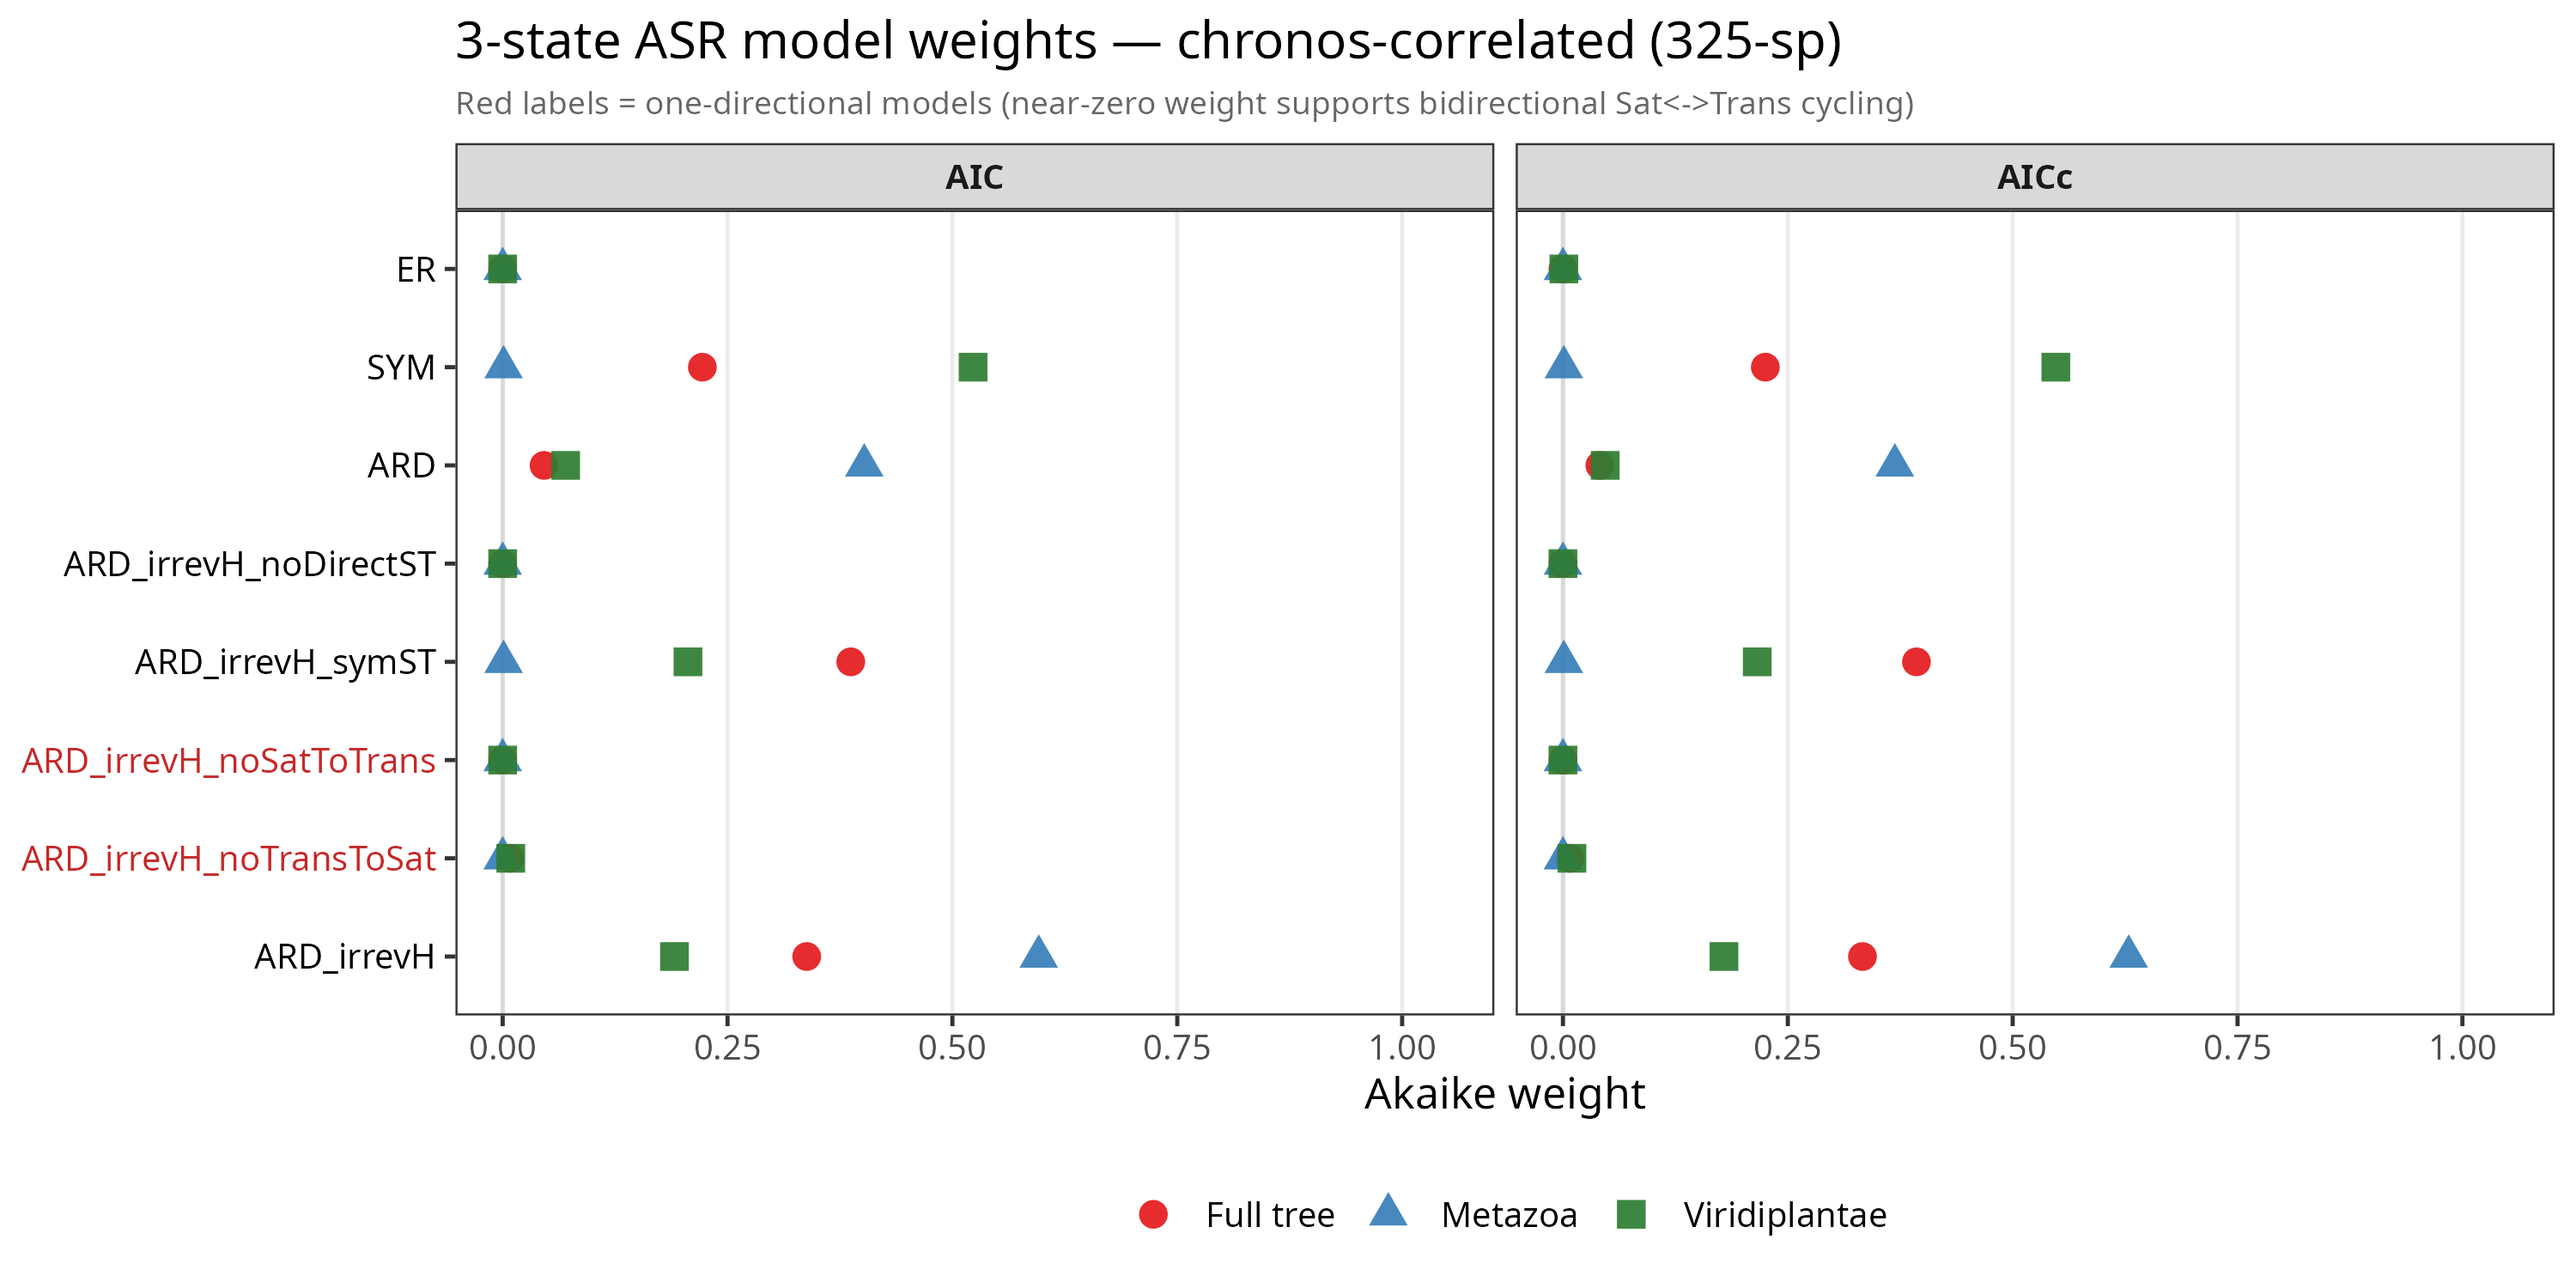
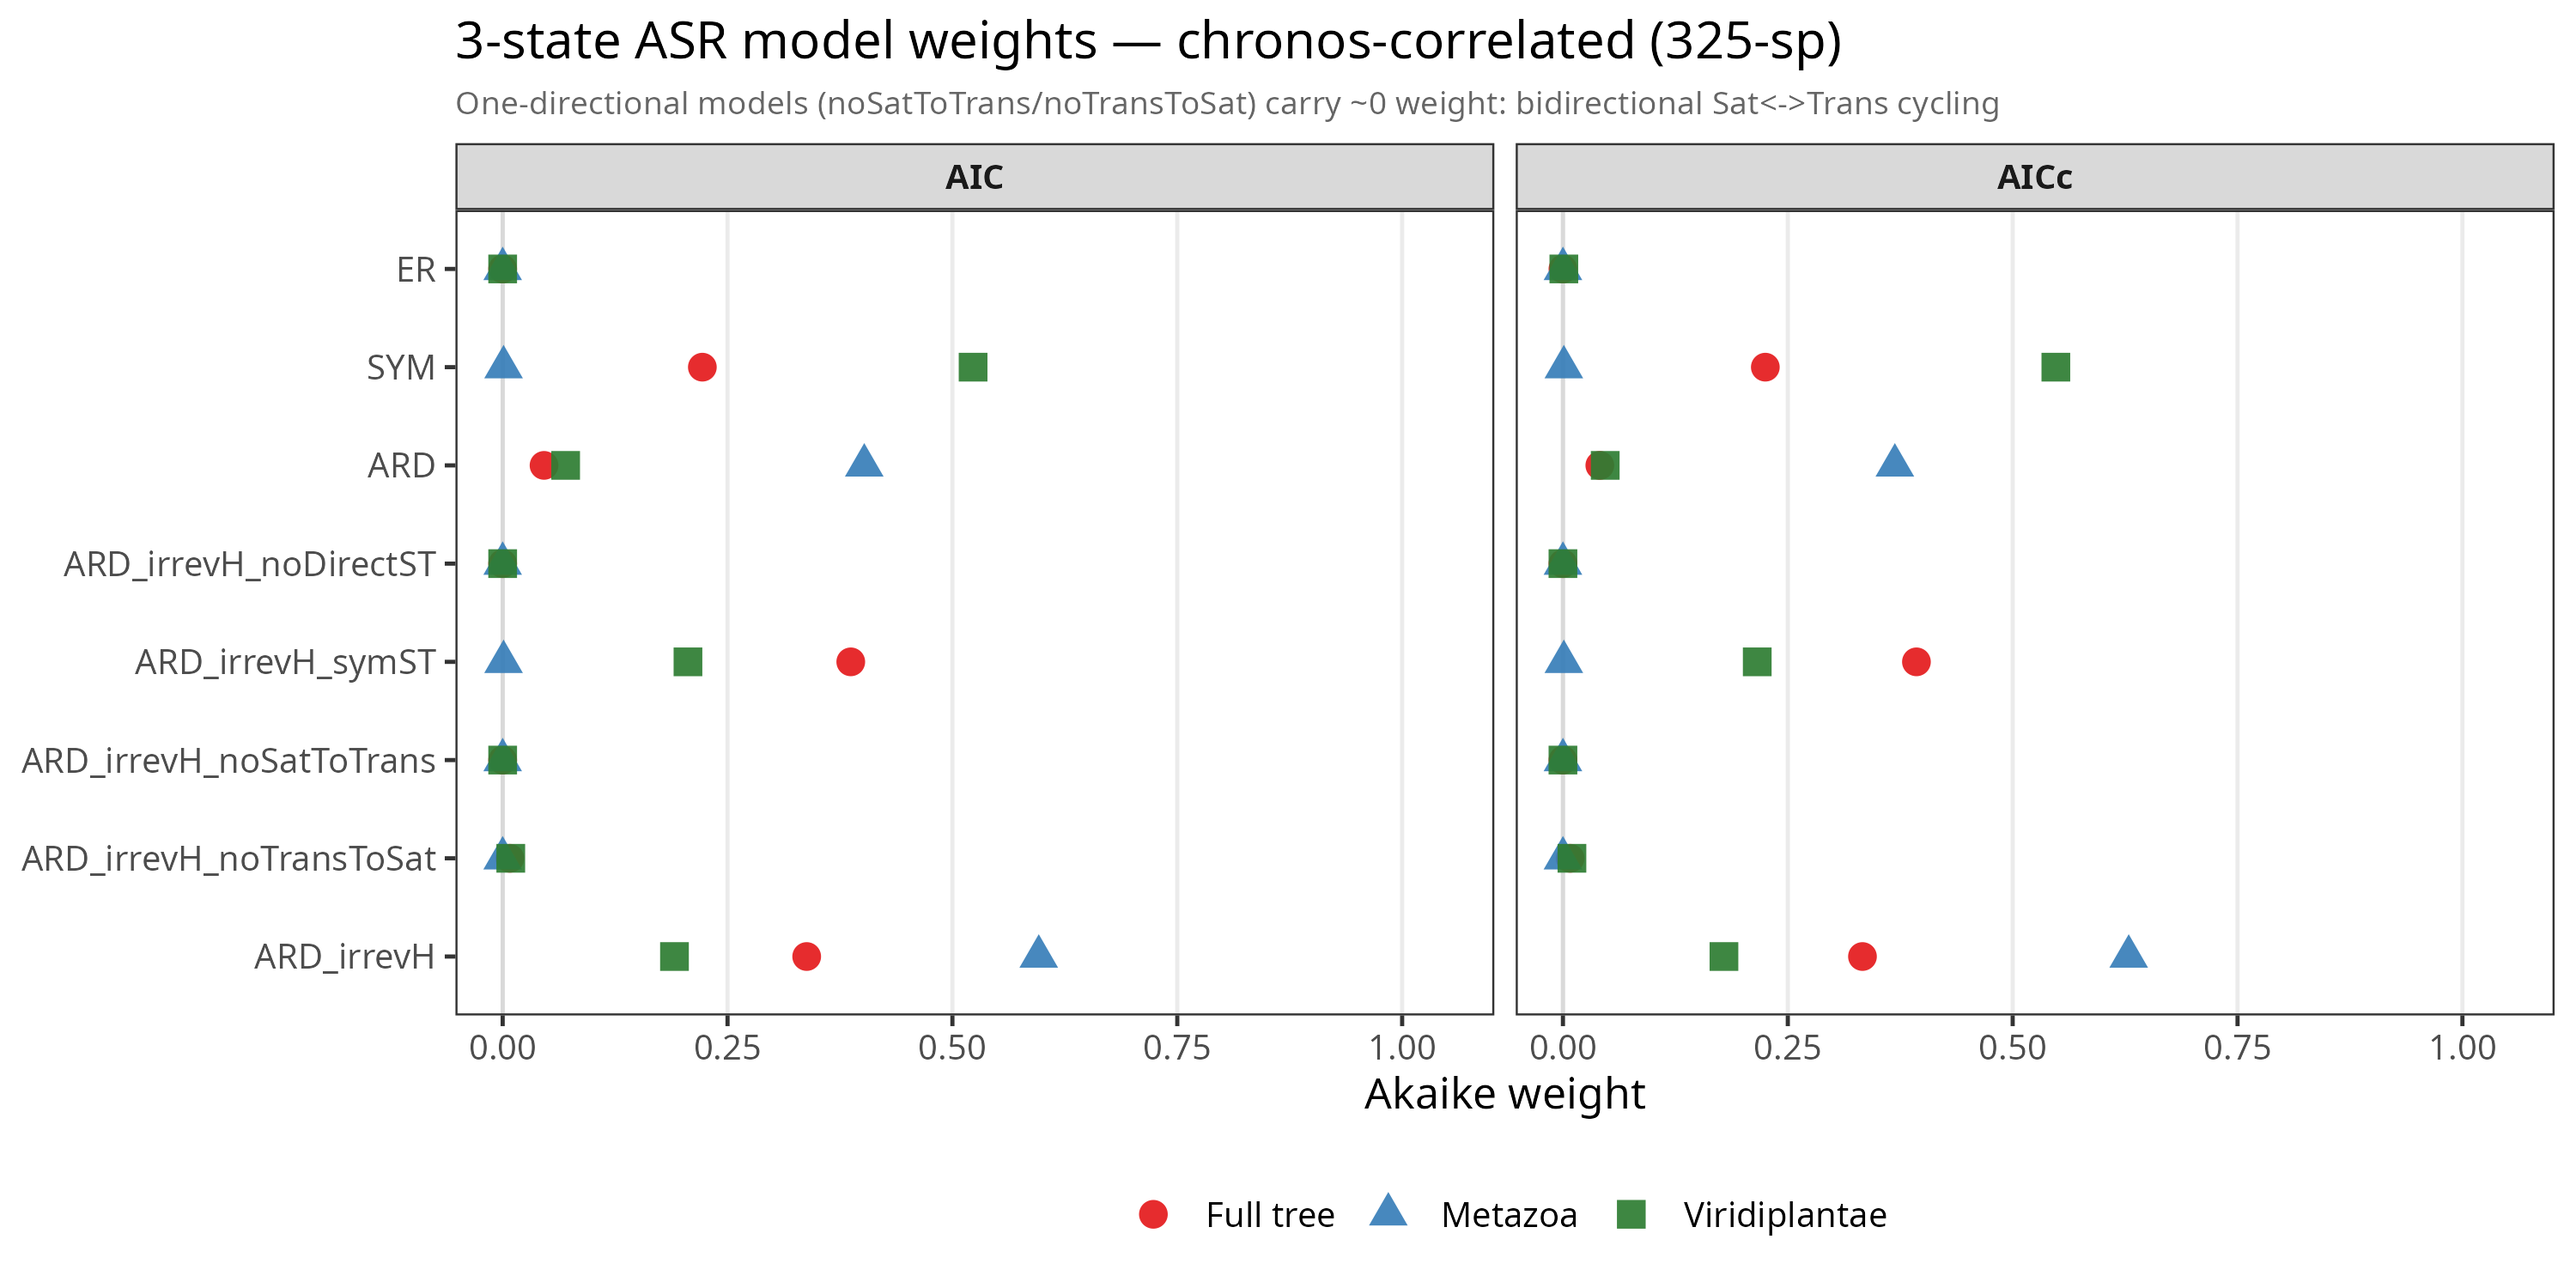
02_asr: add 3-state rate-flow diagrams (Sat<->Trans cycle); drop red model labels in weights plot

diff --git a/02_asr/README.md b/02_asr/README.md
@@ -61,4 +61,5 @@ Script: `scripts/40b_all_models_3state.R` (reads this repo's own
 The two one-directional models (noSatToTrans / noTransToSat) always carry
 ≈0 weight — evidence for **bidirectional Satellite<->Transposon cycling**.
 Figures: `outputs/all_models_3state/all_models_3state_weights.{png,pdf}`;
-model diagrams (allowed transitions per model): `outputs/all_models_3state/model_schematics_3state.{png,pdf}`.
+model diagrams (allowed transitions per model): `outputs/all_models_3state/model_schematics_3state.{png,pdf}`;
+rate-flow diagrams (best model per dataset, the Sat<->Trans cycle): `outputs/all_models_3state/flow_diagrams_3state_bestmodel.{png,pdf}`.
